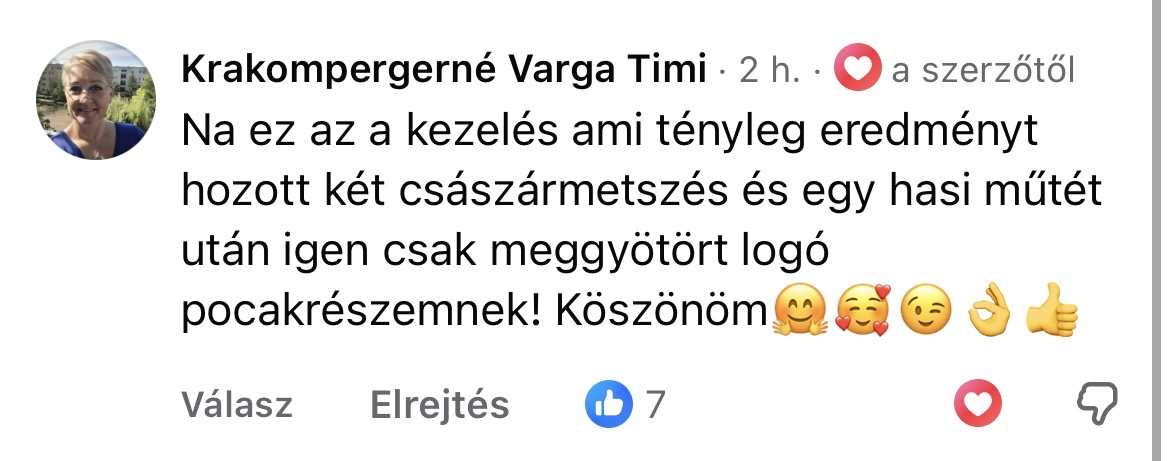
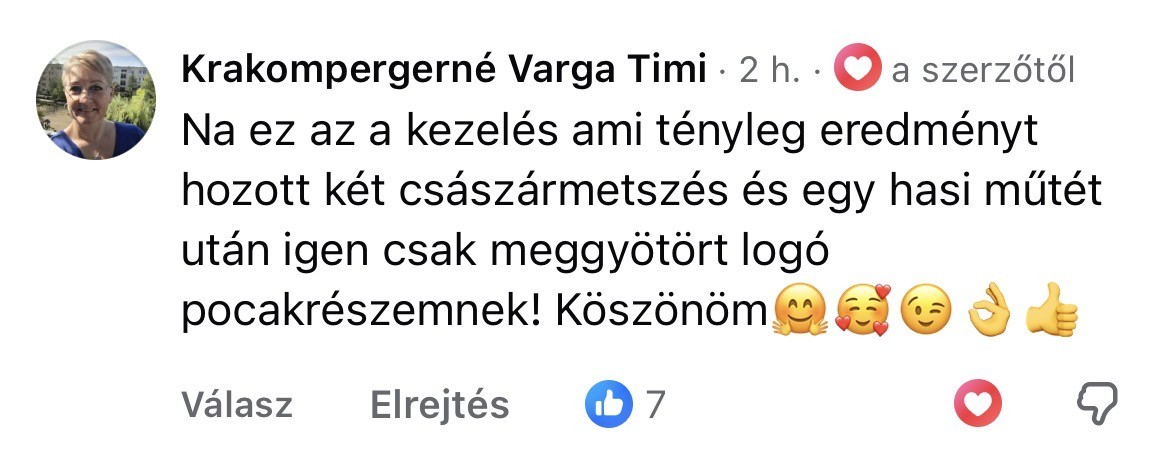
oktatoanyag.html: crop scrollbar stripe off review image, add rotating glow border
- cropped the gray scrollbar-edge strip off the right side of the
  Krakompergerné Varga Timi testimonial screenshot
- wrapped that image in a rounded pink glow-frame with a rotating
  conic-gradient light-beam ring animation around the border

diff --git a/oktatoanyag.html b/oktatoanyag.html
@@ -98,6 +98,11 @@ section{padding:80px 0}
 .pain-card .mark{font-family:'Poppins',sans-serif;font-weight:800;color:var(--rosegold);font-size:1.15rem;flex:none}
 @media (max-width:880px){.pain-grid{grid-template-columns:1fr}}
 @media (max-width:420px){.pitch-benefits{grid-template-columns:1fr}}
+.glow-frame{position:relative;border-radius:20px;padding:4px;isolation:isolate}
+.glow-frame::before{content:'';position:absolute;inset:0;border-radius:20px;padding:4px;background:conic-gradient(from 0deg,transparent 0%,var(--rosegold) 12%,transparent 28%,transparent 100%);-webkit-mask:linear-gradient(#fff 0 0) content-box,linear-gradient(#fff 0 0);-webkit-mask-composite:xor;mask:linear-gradient(#fff 0 0) content-box,linear-gradient(#fff 0 0);mask-composite:exclude;animation:glowSpin 3.5s linear infinite;z-index:1}
+.glow-frame img{position:relative;border-radius:17px;z-index:0}
+@keyframes glowSpin{to{transform:rotate(360deg)}}
+@media (prefers-reduced-motion: reduce){.glow-frame::before{animation:none}}
 
 /* ===== EREDMÉNY (2 személyre szabott tipp + mindig a foglalási CTA) ===== */
 #result{background:var(--ho);display:none}
@@ -279,7 +284,7 @@ footer a{color:var(--rosegold)}
         <div><span class="tag">Megoldás</span><h3 id="tip2Title"></h3><div id="tip2Text"></div></div>
       </div>
 
-      <div class="review-mini reveal" style="max-width:400px;margin:0 auto"><img src="images/velemeny-krakomperger-varga-timi-2.jpeg" alt="Krakompergerné Varga Timi Facebook-véleménye: „Na ez az a kezelés ami tényleg eredményt hozott két császármetszés és egy hasi műtét után igen csak meggyötört logó pocakrészemnek! Köszönöm.”" loading="lazy" decoding="async"></div>
+      <div class="review-mini glow-frame reveal" style="max-width:400px;margin:0 auto"><img src="images/velemeny-krakomperger-varga-timi-2.jpeg" alt="Krakompergerné Varga Timi Facebook-véleménye: „Na ez az a kezelés ami tényleg eredményt hozott két császármetszés és egy hasi műtét után igen csak meggyötört logó pocakrészemnek! Köszönöm.”" loading="lazy" decoding="async"></div>
 
       <div class="result-card result-main result-booking reveal">
         <div class="booking-head">
